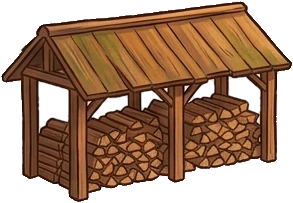
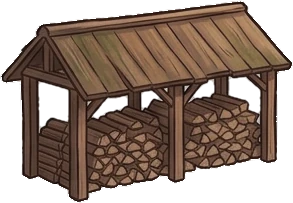
v47: village houses bigger, map left edge cut at woodshed, woodshed recolored to match barn

diff --git a/index.html b/index.html
@@ -186,12 +186,12 @@ body.overview .hud, body.overview .stick-zone, body.overview .guide, body.overvi
 <script>
 // ===================== Общие настройки =====================
 const DPR = Math.min(window.devicePixelRatio || 1, 3);
-const GAME_VERSION = 43;   // совпадает с номером в sw.js (farm-vN); видно в окне «Заново»
+const GAME_VERSION = 47;   // совпадает с номером в sw.js (farm-vN); видно в окне «Заново»
 // Слои земли (трава, дорожки, поля, тени) — глубже любых персонажей и деревьев, даже с отрицательной y
 const GROUND = -5000;
 // Карта: y от −1000 до 2000. Верх (y < 0) — поле с пшеницей, низ (y > 1000) — пастбище Нанамина
-const WORLD = { x: -700, w: 2800, top: -1700, h: 3700 };   // x — левый край (карта расширена влево), w — правый край   // карта расширена вправо (было 1400) и вверх — море над полем
-const WW = 2800 + 700;     // полная ширина карты (WORLD.w - WORLD.x)
+const WORLD = { x: -460, w: 2800, top: -1700, h: 3700 };   // x — левый край (карта расширена влево), w — правый край   // карта расширена вправо (было 1400) и вверх — море над полем
+const WW = 2800 + 460;     // полная ширина карты (WORLD.w - WORLD.x)
 const OZERO_X = 2000;     // локация «Скалы» (раньше «Озеро»): правая часть фермы между полем и пастбищем, отделена забором
 const SAVE_KEY = 'farm-prototype-v1';
 const REDUCED = window.matchMedia('(prefers-reduced-motion: reduce)').matches;
@@ -231,7 +231,7 @@ const QUEST_BEDS = 3;
 
 // Точки, к которым героиня подходит, и дистанция, с которой срабатывает действие
 const ANCHORS = {
-  grandpa: { x: 300, y: 330, reach: 72, mark: -118 },
+  grandpa: { x: 312, y: 378, reach: 72, mark: -118 },
   well:    { x: 140, y: 560, reach: 92, mark: -92 },
   bed0:    { ...BEDS[0], reach: 84, mark: -84 },
   bed1:    { ...BEDS[1], reach: 84, mark: -84 },
@@ -240,7 +240,7 @@ const ANCHORS = {
   gate:    { x: 700, y: 250, reach: 64, mark: -72 },
   klara:   { x: 940, y: 320, reach: 72, mark: -118 },
   nanamin: { x: 800, y: 1580, reach: 72, mark: -118 },   // справа от загона
-  door:    { x: 210, y: 280, reach: 62, mark: -100 },   // дверь дома дедушки (вечером — «Лечь спать»)
+  door:    { x: 210, y: 320, reach: 62, mark: -140 },   // дверь дома дедушки (вечером — «Лечь спать»)
   fieldGate: { x: 588, y: -40, reach: 0, mark: -50 },   // проход в поле (только цель для маркера)
   thorfinn: { x: 650, y: -530, reach: 72, mark: -118 }, // пост Торфинна у перекрёстка в поле (сам он двигается)
   iro:     { x: 1036, y: 802, reach: 80, mark: -94 },
@@ -704,9 +704,9 @@ function buildTimeLayer() {
   // тёплый свет в окнах дома дедушки
   windowGlow = scene.add.graphics().setDepth(5850).setAlpha(0).setBlendMode(Phaser.BlendModes.ADD);
   // окна дома деда (по картинке): левое в срубе, два у двери
-  for (const [x, y] of [[66, 268], [144, 270], [258, 254]]) {
-    windowGlow.fillStyle(0xFFB040, 0.22).fillEllipse(x, y - 14, 70, 60);
-    windowGlow.fillStyle(0xFFC864, 0.7).fillRect(x - 11, y - 26, 22, 22);
+  for (const [x, y] of [[-6, 303], [111, 306], [282, 282]]) {
+    windowGlow.fillStyle(0xFFB040, 0.22).fillEllipse(x, y - 18, 90, 78);
+    windowGlow.fillStyle(0xFFC864, 0.7).fillRect(x - 14, y - 34, 28, 28);
   }
   if (!scene.textures.exists('firefly')) {
     const t = scene.textures.createCanvas('firefly', 32, 32);
@@ -897,7 +897,7 @@ function stopWalking() { releaseStick(); keys.clear(); }
 // иначе под пальцем появляется джойстик (в любом месте экрана)
 function hitTest(x, y) {
   const near = (ax, ay, r) => (x - ax) ** 2 + (y - ay) ** 2 <= r * r;
-  if (near(300, 295, 44)) return 'grandpa';
+  if (near(312, 343, 44)) return 'grandpa';
   if (state.open.kuryatnik && near(940, 285, 44)) return 'klara';
   if (near(140, 545, 56)) return 'well';
   for (let i = 0; i < BEDS.length; i++) if (Math.abs(x - BEDS[i].x) < 32 && Math.abs(y - BEDS[i].y) < BEDS[i].len / 2 + 8) return 'bed' + i;
@@ -1108,7 +1108,7 @@ const CELL = 56;
 const PATHS = [
   [3, 4, 3, 7],     // от дома дедушки вниз
   [3, 7, 10, 7],    // вдоль огорода
-  [-12, 3, 4, 7],   // общая площадка под домами деревни и вокруг них (из той же дорожки)
+  [-9, 4, 5, 8],    // общая площадка под домами деревни и вокруг них (из той же дорожки)
   [10, 4, 10, 7],   // вверх к калитке
   [10, 4, 18, 4],   // через калитку к курятнику
   [18, 4, 40, 4],   // от курятника на восток, через проход в заборе — к поляне среди скал
@@ -1208,14 +1208,12 @@ function drawGround() {
 // ===================== Деревня деда: рисованные постройки (Magnific, лист 3), каждую можно двигать =====================
 // [картинка, x, y — точка «основания» (середина низа), масштаб; ox — где по ширине картинки эта точка (0..1); solid — [dx1, dy1, dx2, dy2] от основания]
 const BUILDINGS = [
-  // группа деда (как на схеме): амбар сзади, дровник слева от него, домик впереди, дом деда справа
-  ['ambar', -102, 228, 0.5, 0.5, [-125, -110, 125, -6]],
-  ['drovnik', -201, 250, 0.5, 0.5, [-70, -55, 70, -6]],
-  ['domik', -24, 313, 0.5, 0.5, [-80, -85, 80, -6]],
-  ['dom-deda', 210, 278, 0.5, 385 / 554, [-190, -150, 84, -14]],   // основание — у крыльца (дверь на прежнем месте)
-  // вторая группа левее: длинный дом и дровник у его угла
-  ['dlinnyj-dom', -520, 290, 0.5, 0.5, [-128, -95, 128, -6]],
-  ['drovnik', -375, 337, 0.5, 0.5, [-70, -55, 70, -6]],
+  // группа деда (как на схеме): амбар сзади, дровник слева от него, домик впереди, дом деда справа. Масштаб 0.75, домик 0.95
+  ['ambar', -259, 243, 0.75, 0.5, [-187, -165, 187, -9]],
+  ['drovnik', -406, 276, 0.75, 0.5, [-105, -83, 105, -9]],
+  ['domik', -170, 390, 0.95, 0.5, [-152, -161, 152, -12]],   // домик заметно крупнее (просьба: ближе по размеру к дому деда)
+  ['dom-deda', 210, 318, 0.75, 385 / 554, [-285, -225, 126, -21]],   // основание — у крыльца, там же дверь
+  // (край карты проходит по дровнику; длинный дом и второй дровник убраны)
 ];
 function drawHouse() {
   for (const [k, x, y, sc, ox] of BUILDINGS) {
@@ -1393,9 +1391,9 @@ const TREE_FILES = [
 // [картинка, x, y основания ствола, масштаб]
 const PLANTS = [
   // огород: верх
-  ['tree-4', -580, 70, 0.9], ['poplar-1', 660, 120, 1], ['bush-1', 370, 255, 1],
+  ['tree-4', -110, 640, 0.9], ['poplar-1', 660, 120, 1], ['bush-1', 370, 255, 1],
   // огород: середина
-  ['tree-1', -650, 560, 1], ['bush-2', 470, 505, 0.9], ['bush-4', 120, 700, 1],
+  ['tree-1', -310, 600, 1], ['bush-2', 470, 505, 0.9], ['bush-4', 120, 700, 1],
   ['s2-branchy-2', 470, 880, 0.9], ['bush-1', 595, 865, 0.85],
   // огород: низ — большое дерево и группа
   ['s1-oak-1', 190, 1000, 1], ['s1-grove-1', 470, 995, 1],
@@ -2120,8 +2118,8 @@ class FarmScene extends Phaser.Scene {
     for (let i = 0; i < 5; i++) { const ch = makeChicken(800 + i * 110, 300 + (i % 2) * 120); chickens.push(ch); wander(ch); }
 
     const grandpa = makeChar({ skin: 0xF0C29E, dress: 0xB5563A, suspenders: 0x3E5A7A, hair: 'grandpa', hairColor: 0xE4E0D8, cap: 0x6B4A2E, beard: true, glasses: true });
-    grandpa.setPosition(300, 330).setDepth(330);
-    nameLabel('Дедушка', 300, 252);
+    grandpa.setPosition(312, 378).setDepth(378);
+    nameLabel('Дедушка', 312, 300);
 
     klara = makeChar({ skin: 0xE8B48F, dress: 0x5E9E57, apron: 0xF7E3B5, hair: 'scarf', hairColor: 0xF2C94C });
     klara.setPosition(940, 320).setDepth(320).setVisible(state.open.kuryatnik);

diff --git a/sw.js b/sw.js
@@ -1,7 +1,7 @@
 // Service worker: позволяет игре работать без интернета.
 // Стратегия: если есть интернет — всегда берём свежую версию (в обход кэша браузера)
 // и заодно обновляем сохранённую копию; без интернета — играем из сохранённой копии.
-const CACHE = 'farm-v43';
+const CACHE = 'farm-v47';
 const CORE = [
   './',
   './index.html',
@@ -17,7 +17,7 @@ const CORE = [
   './assets/fence/fence.png',
   './assets/chars/iro.png',
   './assets/chars/kale.png',
-  ...['dom-deda', 'domik', 'dlinnyj-dom', 'ambar', 'drovnik'].map(k => `./assets/houses/${k}.webp`),
+  ...['dom-deda', 'domik', 'ambar', 'drovnik'].map(k => `./assets/houses/${k}.webp`),
   './assets/fields/wheat-plot.webp',
   './assets/fields/beds.webp',
   ...['tree-1', 'tree-2', 'tree-3', 'tree-4', 'poplar-1', 'poplar-2', 'bush-1', 'bush-2', 'bush-3', 'bush-4']
